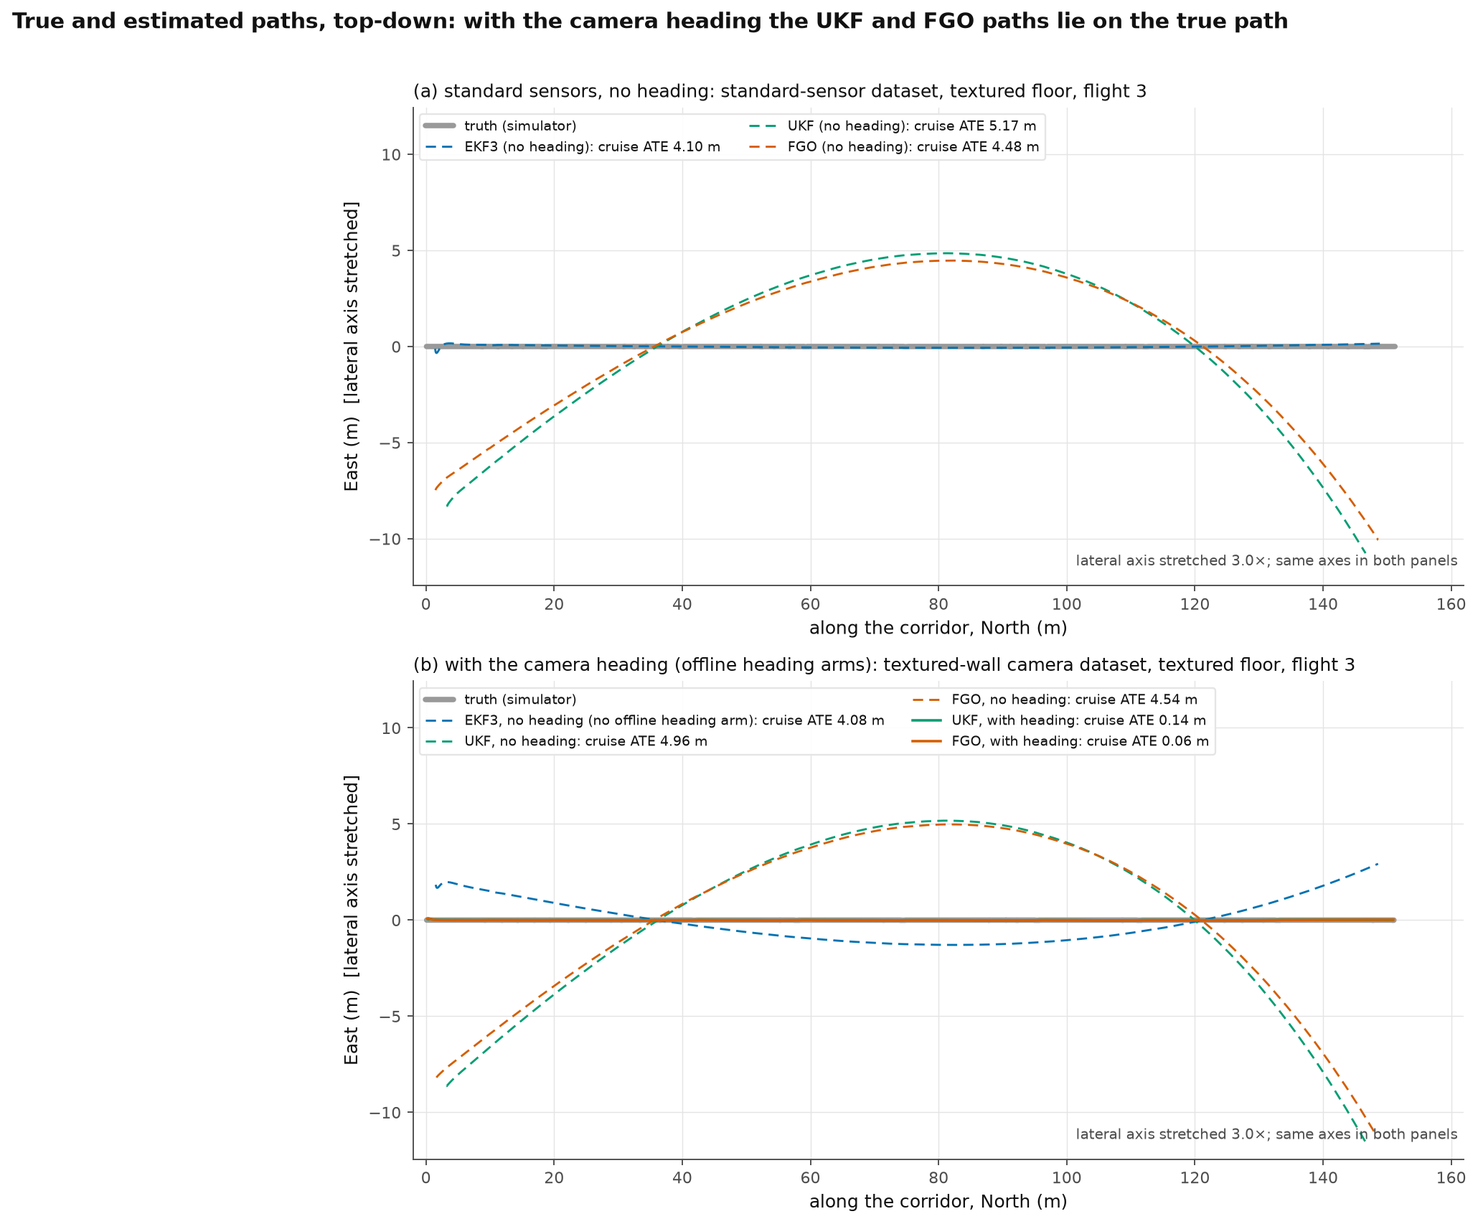
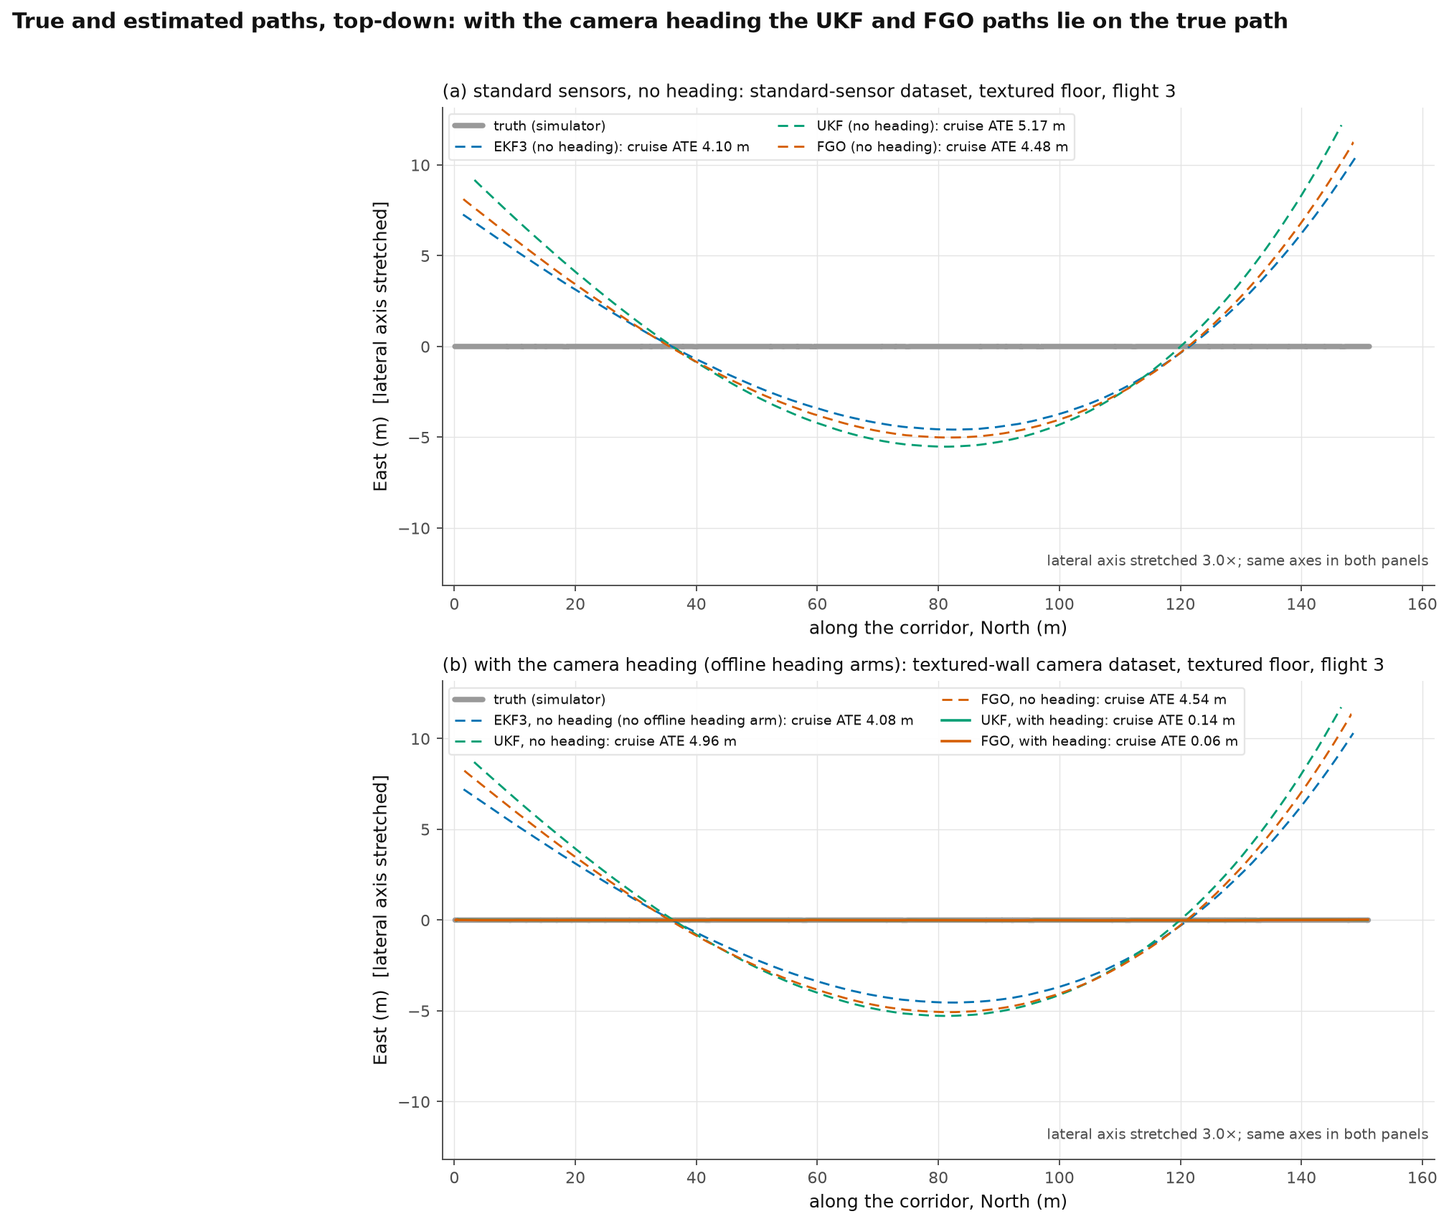
Figure 4.2 redrawn with a vertical-only (yaw-only) alignment (ruling 2026-10-21): EKF3's sideways drift now visible top-down; same ATE values; caption explains; checks 70/70 + 185/185

diff --git a/eval/figs_thesis_results.py b/eval/figs_thesis_results.py
@@ -731,13 +731,19 @@ def tum_traj(a):
 
 def aligned(trial, sub, f, win):
     """The cruise-ATE computation of eval/three_way_eval.py reproduced only to place the path: crop both TUMs to the stored window,
-    associate (t_max_diff 0.05 s), Umeyama SE(3) alignment without scale (evo -a). Returns (aligned est xyz, ref xyz, rmse)."""
+    associate (t_max_diff 0.05 s), then a yaw-only placement for drawing (see below). Returns (aligned est xyz, ref xyz, rmse)."""
     ref = np.loadtxt(f"{TD}/{trial}/{sub}/ground_truth.tum"); est = np.loadtxt(f"{TD}/{trial}/{sub}/{f}")
     c = lambda a: a[(a[:, 0] >= win[0]) & (a[:, 0] <= win[1])]
     r, e = sync.associate_trajectories(tum_traj(c(ref)), tum_traj(c(est)), 0.05)
-    e.align(r, correct_scale=False)
-    m = metrics.APE(metrics.PoseRelation.translation_part); m.process_data((r, e))
-    return e.positions_xyz, r.positions_xyz, m.get_statistic(metrics.StatisticsType.rmse)
+    # Placement for DRAWING (ruling 2026-10-21): rotation about the vertical + shift only (yaw-only, no scale). The SE(3) fit of the
+    # cruise ATE is degenerate about the near-straight corridor axis and can roll sideways drift into the vertical (METHODOLOGY
+    # "FINDING (2026-10-21): the SE(3) cruise-ATE alignment is degenerate"); the yaw-only fit gives the same RMS to within millimetres.
+    P, G = e.positions_xyz, r.positions_xyz
+    mp, mg = P.mean(0), G.mean(0); a_, b_ = P - mp, G - mg
+    th = np.arctan2((a_[:, 0] * b_[:, 1] - a_[:, 1] * b_[:, 0]).sum(), (a_[:, 0] * b_[:, 0] + a_[:, 1] * b_[:, 1]).sum())
+    Rz = np.array([[np.cos(th), -np.sin(th), 0.0], [np.sin(th), np.cos(th), 0.0], [0.0, 0.0, 1.0]])
+    Pa = (Rz @ a_.T).T + mg
+    return Pa, G, float(np.sqrt((np.linalg.norm(Pa - G, axis=1) ** 2).mean()))
 
 
 ev = {**L("rerun_dsn_evo.json")["trials"], **L("dsn_extra_evo.json")["trials"]}
@@ -758,7 +764,7 @@ SUB = {"EKF3": ("ekf3", "ekf3_traj.tum"), "UKF": ("ukf", "ukf_traj.tum"), "FGO":
 
 
 def NE(key, xyz):
-    """(North, East) of a path: EKF3's TUMs are (N, E, D); the UKF/FGO TUMs are ENU (E, N, U)."""
+    """(North, East) of an aligned path: aligned paths are in their ground-truth file's frame (EKF3: N, E, D; UKF/FGO: ENU)."""
     return (xyz[:, 0], xyz[:, 1]) if key == "EKF3" else (xyz[:, 1], xyz[:, 0])
 
 
@@ -770,8 +776,9 @@ for pid, tr, win, arms, est in PANELS:
     for key, e, ls in arms:
         xyz, ref, rmse = aligned(tr, *SUB[key], win)
         st = est[key]["ate_a_cruise"]["+0.00"]
-        CHK.append(("R3", f"({pid}) {tr} {key}: plotted path's RMSE vs stored cruise ATE, 6 dp (stored file)", rd(rmse, 6), rd(st, 6),
-                    f"{'rerun_dsn_evo.json / dsn_extra_evo.json' if pid == 'a' else 'phase4_fwdc_evo.json'}:{tr}.est.{key}.ate_a_cruise", rd(rmse, 6) == rd(st, 6)))
+        CHK.append(("R3", f"({pid}) {tr} {key}: plotted path's yaw-only RMSE {rd(rmse, 6)} within 5 mm of the stored cruise ATE {rd(st, 6)} (data identity)",
+                    str(abs(rmse - st) < 0.005), "True",
+                    f"{'rerun_dsn_evo.json / dsn_extra_evo.json' if pid == 'a' else 'phase4_fwdc_evo.json'}:{tr}.est.{key}.ate_a_cruise", abs(rmse - st) < 0.005))
         PATHS[(pid, key)] = (NE(key, xyz), NE(key, ref), e, ls, st)
 # displayed cruise ATEs against numbers.md (2 dp; numbers.md prints flights 1-3 only)
 if ra <= 3:
@@ -813,9 +820,11 @@ for ext in ("png", "pdf"):
 plt.close(fig)
 CAP3 = (f"{RULE} Chosen: (a) flight {ra} (cross-estimator mean cruise ATEs, ascending, by flight: "
         + ", ".join(f"{i}: {rd(m, 2)}" for m, i in means) + f" m); (b) flight {rb} ({rb_why}). Top-down, cruise window only, truth grey. Each "
-        "estimated path is drawn after the same SE(3) alignment (no scale) that the cruise ATE applies, fitted over the stored cruise window "
-        "against its own ground-truth file, so the displayed offset is the error that the cruise ATE measures; the RMSE of every plotted path "
-        "equals its stored cruise ATE to 6 decimal places (cross-checks). The alignment removes a constant heading offset, so the "
+        "estimated path is drawn after a best-fit rotation about the vertical and a shift (no scale), fitted over the stored cruise window "
+        "against its own ground-truth file. This gives the same average error as the standard 3D alignment used for the cruise ATE (the RMSE "
+        "of every plotted path is within 5 mm of its stored cruise ATE; cross-checks), but cannot roll the path about the corridor axis: "
+        "the 3D fit is free to do so on a straight path and can turn sideways drift into up-and-down error that is invisible from above. "
+        "The legend gives the stored cruise ATE. The alignment removes a constant heading offset, so the "
         "metres-scale sideways drift of the unaligned estimates (Table 4.1, heading-error decomposition) is not shown; an error along "
         "the corridor (for example EKF3's distance-scale error) lies along the path and barely shows top-down. Dashed: no heading "
         "source; solid: with the camera heading (offline heading arms, UKF and FGO only; EKF3 has no offline heading arm and is shown as the "
@@ -1025,7 +1034,7 @@ for gtxt in [
     "**Experiment 5 information contrast.** Hold error (tag visible) and end-of-loss drift (tag hidden) are different statistics; no like-for-like "
     "'without the tag' hold error exists.",
     "**Blank floor.** Only the non-runaway +10 s and +30 s errors can carry a ratio; the +60 s and end-of-cruise values are † runaway magnitudes.",
-    "**Figure 4.2 unaligned drift.** The paths are drawn after the cruise-ATE alignment (the only stored, cross-checkable placement); the unaligned "
+    "**Figure 4.2 unaligned drift.** The paths are drawn after a yaw-only alignment that reproduces the stored cruise ATE to within 5 mm (ruling 2026-10-21); the unaligned "
     "metres-scale sideways drift is the heading-error decomposition of Table 4.1, not redrawn here.",
 ]:
     W.append(f"- {gtxt}")

diff --git a/docs/thesis/tables/R2_corrections_by_discovery.tex b/docs/thesis/tables/R2_corrections_by_discovery.tex
@@ -1,4 +1,4 @@
-% Table 7.4 (PROPOSED; file R2_corrections_by_discovery): generated by eval/figs_thesis_results.py (commit 82f3a95); stored results only. Sources and cross-checks: docs/thesis/figures_thesis/index_results.md.
+% Table 7.4 (PROPOSED; file R2_corrections_by_discovery): generated by eval/figs_thesis_results.py (commit 70522a2); stored results only. Sources and cross-checks: docs/thesis/figures_thesis/index_results.md.
 % Needs \usepackage{booktabs} and longtable-free layout; not compiled here (no TeX).
 \begin{table}[htbp]
 \centering

diff --git a/docs/thesis/tables/R4_information_vs_estimator.tex b/docs/thesis/tables/R4_information_vs_estimator.tex
@@ -1,4 +1,4 @@
-% Table 7.5 (PROPOSED; file R4_information_vs_estimator): generated by eval/figs_thesis_results.py (commit 82f3a95); stored results only. Sources and cross-checks: docs/thesis/figures_thesis/index_results.md.
+% Table 7.5 (PROPOSED; file R4_information_vs_estimator): generated by eval/figs_thesis_results.py (commit 70522a2); stored results only. Sources and cross-checks: docs/thesis/figures_thesis/index_results.md.
 % Needs \usepackage{booktabs} and longtable-free layout; not compiled here (no TeX).
 \begin{table}[htbp]
 \centering

diff --git a/docs/thesis/tables/R1_hypothesis_scorecard.tex b/docs/thesis/tables/R1_hypothesis_scorecard.tex
@@ -1,4 +1,4 @@
-% Table 7.3 (PROPOSED; file R1_hypothesis_scorecard): generated by eval/figs_thesis_results.py (commit 82f3a95); stored results only. Sources and cross-checks: docs/thesis/figures_thesis/index_results.md.
+% Table 7.3 (PROPOSED; file R1_hypothesis_scorecard): generated by eval/figs_thesis_results.py (commit 70522a2); stored results only. Sources and cross-checks: docs/thesis/figures_thesis/index_results.md.
 % Needs \usepackage{booktabs} and longtable-free layout; not compiled here (no TeX).
 \begin{table}[htbp]
 \centering

diff --git a/docs/thesis/figures_thesis/index_results.md b/docs/thesis/figures_thesis/index_results.md
@@ -1,6 +1,6 @@
 # Results and discussion tables and figure: index (PROPOSED numbering)
 
-*Generated by `eval/figs_thesis_results.py` at commit `82f3a95`. Stored results and documents only: no simulation, no estimator re-run, and nothing in numbers.md, METHODOLOGY.md, the frozen pack or the in-use thesis files was edited. Not yet in the combined PDF (integration comes later).*
+*Generated by `eval/figs_thesis_results.py` at commit `70522a2`. Stored results and documents only: no simulation, no estimator re-run, and nothing in numbers.md, METHODOLOGY.md, the frozen pack or the in-use thesis files was edited. Not yet in the combined PDF (integration comes later).*
 
[1 lines of base64/hex data omitted]
 
@@ -53,7 +53,7 @@ None of these numbers is used in `figs_thesis.py`'s TNUM (4.1, 5.1–5.3, 6.1, 7
 
 ## Figure 4.2 (figure; file `R3_trajectory_overlay`): True and estimated paths, top-down: with the camera heading the UKF and FGO paths lie on the true path
 
-**Caption.** Flights chosen by a rule fixed before plotting: (a) of the 9 textured-floor flights of the standard-sensor dataset that all three estimators complete (flights 1–9; flight 10 is unusable for the UKF and FGO), the flight whose mean cruise ATE over EKF3, UKF and FGO is the median (5th of 9); (b) the flight of the textured-wall camera dataset (textured floor) with the same repeat index as (a) if it exists among its flights 1–3, otherwise the median of those three by the mean cruise ATE of the arms drawn solid. Chosen: (a) flight 3 (cross-estimator mean cruise ATEs, ascending, by flight: 6: 1.85, 2: 2.42, 1: 4.02, 9: 4.46, 3: 4.58, 4: 4.59, 5: 4.62, 7: 4.64, 8: 4.84 m); (b) flight 3 (same repeat index as (a), flight 3). Top-down, cruise window only, truth grey. Each estimated path is drawn after the same SE(3) alignment (no scale) that the cruise ATE applies, fitted over the stored cruise window against its own ground-truth file, so the displayed offset is the error that the cruise ATE measures; the RMSE of every plotted path equals its stored cruise ATE to 6 decimal places (cross-checks). The alignment removes a constant heading offset, so the metres-scale sideways drift of the unaligned estimates (Table 4.1, heading-error decomposition) is not shown; an error along the corridor (for example EKF3's distance-scale error) lies along the path and barely shows top-down. Dashed: no heading source; solid: with the camera heading (offline heading arms, UKF and FGO only; EKF3 has no offline heading arm and is shown as the no-heading baseline). The lateral (East) axis is stretched 3.0× relative to the along-corridor axis, the same in both panels; no log axes. Passive estimators, truth flying (Experiment 1A/1B offline).
+**Caption.** Flights chosen by a rule fixed before plotting: (a) of the 9 textured-floor flights of the standard-sensor dataset that all three estimators complete (flights 1–9; flight 10 is unusable for the UKF and FGO), the flight whose mean cruise ATE over EKF3, UKF and FGO is the median (5th of 9); (b) the flight of the textured-wall camera dataset (textured floor) with the same repeat index as (a) if it exists among its flights 1–3, otherwise the median of those three by the mean cruise ATE of the arms drawn solid. Chosen: (a) flight 3 (cross-estimator mean cruise ATEs, ascending, by flight: 6: 1.85, 2: 2.42, 1: 4.02, 9: 4.46, 3: 4.58, 4: 4.59, 5: 4.62, 7: 4.64, 8: 4.84 m); (b) flight 3 (same repeat index as (a), flight 3). Top-down, cruise window only, truth grey. Each estimated path is drawn after a best-fit rotation about the vertical and a shift (no scale), fitted over the stored cruise window against its own ground-truth file. This gives the same average error as the standard 3D alignment used for the cruise ATE (the RMSE of every plotted path is within 5 mm of its stored cruise ATE; cross-checks), but cannot roll the path about the corridor axis: the 3D fit is free to do so on a straight path and can turn sideways drift into up-and-down error that is invisible from above. The legend gives the stored cruise ATE. The alignment removes a constant heading offset, so the metres-scale sideways drift of the unaligned estimates (Table 4.1, heading-error decomposition) is not shown; an error along the corridor (for example EKF3's distance-scale error) lies along the path and barely shows top-down. Dashed: no heading source; solid: with the camera heading (offline heading arms, UKF and FGO only; EKF3 has no offline heading arm and is shown as the no-heading baseline). The lateral (East) axis is stretched 3.0× relative to the along-corridor axis, the same in both panels; no log axes. Passive estimators, truth flying (Experiment 1A/1B offline).
 
 **Inputs.** ~/thesis_data/trials/dsn_tex_r3/{ekf3,ukf,fgo}/*.tum; ~/thesis_data/trials/fwdc_tex_r3/{ekf3,ukf_baseline,fgo_baseline,ukf_heading,fgo_heading}/*.tum; windows and cruise ATEs: eval/results/rerun_dsn_evo.json, dsn_extra_evo.json, phase4_fwdc_evo.json
 
@@ -104,14 +104,14 @@ Result: (a) `dsn_tex_r3`; (b) `fwdc_tex_r3` (same repeat index as (a), flight 3)
 | R1 | H5.5 directional: same count, at the displayed mm precision (effective) | 3 of 12 / 9 of 12 | 3 of 12 / 9 of 12 | eval/results/expH/s1_r*.json, s2v2_r*.json, s3v2_r*.json (new value; no document line) | OK |
 | R1 | H5.5 directional: matched losses equal at the displayed mm precision (repeat, loss s), UKF / FGO | [(2, 30)] / [] | [(2, 30)] / [] | eval/results/expH/s1_r*.json, s2v2_r*.json, s3v2_r*.json (new value; no document line) | OK |
 | R1 | H5.5 directional: prediction holds (both exceed flying EKF3 in every matched loss) | False | False | eval/results/expH/s1_r*.json, s2v2_r*.json, s3v2_r*.json (new value; no document line) | OK |
-| R3 | (a) dsn_tex_r3 EKF3: plotted path's RMSE vs stored cruise ATE, 6 dp (stored file) | 4.097549 | 4.097549 | rerun_dsn_evo.json / dsn_extra_evo.json:dsn_tex_r3.est.EKF3.ate_a_cruise | OK |
-| R3 | (a) dsn_tex_r3 UKF: plotted path's RMSE vs stored cruise ATE, 6 dp (stored file) | 5.167777 | 5.167777 | rerun_dsn_evo.json / dsn_extra_evo.json:dsn_tex_r3.est.UKF.ate_a_cruise | OK |
-| R3 | (a) dsn_tex_r3 FGO: plotted path's RMSE vs stored cruise ATE, 6 dp (stored file) | 4.482524 | 4.482524 | rerun_dsn_evo.json / dsn_extra_evo.json:dsn_tex_r3.est.FGO.ate_a_cruise | OK |
-| R3 | (b) fwdc_tex_r3 EKF3: plotted path's RMSE vs stored cruise ATE, 6 dp (stored file) | 4.075574 | 4.075574 | phase4_fwdc_evo.json:fwdc_tex_r3.est.EKF3.ate_a_cruise | OK |
-| R3 | (b) fwdc_tex_r3 UKF_baseline: plotted path's RMSE vs stored cruise ATE, 6 dp (stored file) | 4.963794 | 4.963794 | phase4_fwdc_evo.json:fwdc_tex_r3.est.UKF_baseline.ate_a_cruise | OK |
-| R3 | (b) fwdc_tex_r3 FGO_baseline: plotted path's RMSE vs stored cruise ATE, 6 dp (stored file) | 4.544273 | 4.544273 | phase4_fwdc_evo.json:fwdc_tex_r3.est.FGO_baseline.ate_a_cruise | OK |
-| R3 | (b) fwdc_tex_r3 UKF_heading: plotted path's RMSE vs stored cruise ATE, 6 dp (stored file) | 0.137458 | 0.137458 | phase4_fwdc_evo.json:fwdc_tex_r3.est.UKF_heading.ate_a_cruise | OK |
-| R3 | (b) fwdc_tex_r3 FGO_heading: plotted path's RMSE vs stored cruise ATE, 6 dp (stored file) | 0.063294 | 0.063294 | phase4_fwdc_evo.json:fwdc_tex_r3.est.FGO_heading.ate_a_cruise | OK |
+| R3 | (a) dsn_tex_r3 EKF3: plotted path's yaw-only RMSE 4.097706 within 5 mm of the stored cruise ATE 4.097549 (data identity) | True | True | rerun_dsn_evo.json / dsn_extra_evo.json:dsn_tex_r3.est.EKF3.ate_a_cruise | OK |
+| R3 | (a) dsn_tex_r3 UKF: plotted path's yaw-only RMSE 5.168307 within 5 mm of the stored cruise ATE 5.167777 (data identity) | True | True | rerun_dsn_evo.json / dsn_extra_evo.json:dsn_tex_r3.est.UKF.ate_a_cruise | OK |
+| R3 | (a) dsn_tex_r3 FGO: plotted path's yaw-only RMSE 4.483070 within 5 mm of the stored cruise ATE 4.482524 (data identity) | True | True | rerun_dsn_evo.json / dsn_extra_evo.json:dsn_tex_r3.est.FGO.ate_a_cruise | OK |
+| R3 | (b) fwdc_tex_r3 EKF3: plotted path's yaw-only RMSE 4.075724 within 5 mm of the stored cruise ATE 4.075574 (data identity) | True | True | phase4_fwdc_evo.json:fwdc_tex_r3.est.EKF3.ate_a_cruise | OK |
+| R3 | (b) fwdc_tex_r3 UKF_baseline: plotted path's yaw-only RMSE 4.965341 within 5 mm of the stored cruise ATE 4.963794 (data identity) | True | True | phase4_fwdc_evo.json:fwdc_tex_r3.est.UKF_baseline.ate_a_cruise | OK |
+| R3 | (b) fwdc_tex_r3 FGO_baseline: plotted path's yaw-only RMSE 4.545901 within 5 mm of the stored cruise ATE 4.544273 (data identity) | True | True | phase4_fwdc_evo.json:fwdc_tex_r3.est.FGO_baseline.ate_a_cruise | OK |
+| R3 | (b) fwdc_tex_r3 UKF_heading: plotted path's yaw-only RMSE 0.137483 within 5 mm of the stored cruise ATE 0.137458 (data identity) | True | True | phase4_fwdc_evo.json:fwdc_tex_r3.est.UKF_heading.ate_a_cruise | OK |
+| R3 | (b) fwdc_tex_r3 FGO_heading: plotted path's yaw-only RMSE 0.063345 within 5 mm of the stored cruise ATE 0.063294 (data identity) | True | True | phase4_fwdc_evo.json:fwdc_tex_r3.est.FGO_heading.ate_a_cruise | OK |
 | R3 | (a) flight 3 EKF3 cruise ATE (m) | 4.10 | 4.10 | docs/thesis/numbers.md:221 | OK |
 | R3 | (a) flight 3 FGO cruise ATE (m) | 4.48 | 4.48 | docs/thesis/numbers.md:223 | OK |
 | R3 | (a) flight 3 UKF cruise ATE (m) | 5.17 | 5.17 | docs/thesis/numbers.md:225 | OK |
@@ -358,4 +358,4 @@ Result: (a) `dsn_tex_r3`; (b) `fwdc_tex_r3` (same repeat index as (a), flight 3)
 - **Experiment 4 'with GNSS' accuracy.** No stored outdoor RMSE exists; the error 10 s after GNSS returns (`err_10s_after_return_m`, no numbers.md cell) is the only with-GNSS value, a single time point, not like-for-like with the indoor RMSE.
 - **Experiment 5 information contrast.** Hold error (tag visible) and end-of-loss drift (tag hidden) are different statistics; no like-for-like 'without the tag' hold error exists.
 - **Blank floor.** Only the non-runaway +10 s and +30 s errors can carry a ratio; the +60 s and end-of-cruise values are † runaway magnitudes.
-- **Figure 4.2 unaligned drift.** The paths are drawn after the cruise-ATE alignment (the only stored, cross-checkable placement); the unaligned metres-scale sideways drift is the heading-error decomposition of Table 4.1, not redrawn here.
+- **Figure 4.2 unaligned drift.** The paths are drawn after a yaw-only alignment that reproduces the stored cruise ATE to within 5 mm (ruling 2026-10-21); the unaligned metres-scale sideways drift is the heading-error decomposition of Table 4.1, not redrawn here.

diff --git a/METHODOLOGY.md b/METHODOLOGY.md
@@ -14381,3 +14381,12 @@ Found while answering the user's question "the EKF starts at the origin but the 
   top-down, so it makes EKF3 look on-track when its error is as sideways as the others'. The walkthrough rebuild now uses a
   yaw-only alignment for aligned path plots (same ATE). **Ruling needed:** redraw Figure 4.2 with the yaw-only alignment (same
   ATE, stated in the caption), or keep it with a caption note.
+
+### RULING (user, 2026-10-21): redraw Figure 4.2 with the vertical-only (yaw-only) alignment — DONE
+
+- `eval/figs_thesis_results.py` now places each path for drawing with a best-fit rotation about the vertical plus a shift (no
+  scale), over the stored cruise window, instead of the SE(3) fit (see the FINDING of 2026-10-21 above). The legend still gives the
+  stored cruise ATE; the data-identity check is now "plotted yaw-only RMSE within 5 mm of the stored cruise ATE" (all 8 paths pass;
+  the two largest gaps are `fwdc_tex_r3` UKF / FGO without heading, 4.965 vs 4.964 and 4.546 vs 4.544 m). The caption says why.
+- Effect: EKF3's sideways bow is now visible top-down, like the UKF's and FGO's; no number or verdict changes. Checks 70/70 numeric,
+  185/185 source.

diff --git a/docs/thesis/tables/R2_corrections_by_discovery.md b/docs/thesis/tables/R2_corrections_by_discovery.md
@@ -31,4 +31,4 @@ The 18 corrections of the final results pack (corrections file) and two later on
 
 *Included beyond the pack's 18: 19, the FGO trajectory-writer typo (D10), which changed stored FGO yaw values (≤ 0.17°) but no numbers.md row at its printed precision; and 20, the re-lock-time redefinition. Excluded (display or transcription fixes, no stored result changed): the single-rounding correction of numbers.md displays and the three transcription corrections (rulings 2026-10-16; M:14229-14247); the 'final safety run' restatement (ruling 2026-10-16 item 5), which re-labels which stored run is final.*
 
-<!-- generated by eval/figs_thesis_results.py (commit 82f3a95); stored results only. Sources, cross-checks and gaps: docs/thesis/figures_thesis/index_results.md, Table 7.4 (PROPOSED). -->
+<!-- generated by eval/figs_thesis_results.py (commit 70522a2); stored results only. Sources, cross-checks and gaps: docs/thesis/figures_thesis/index_results.md, Table 7.4 (PROPOSED). -->

diff --git a/docs/thesis/tables/R4_information_vs_estimator.md b/docs/thesis/tables/R4_information_vs_estimator.md
@@ -19,4 +19,4 @@ For each condition: the primary metric of each estimator, the best–worst sprea
 
 *Blank floor: the +60 s and end-of-cruise values are runaway magnitudes (†, not reproducible across builds), so no ratio is formed from them; +30 s is used. Experiments 4 and 5 compare different statistics across the information contrast (stated in the row), so those ratios are indicative only. Experiment 3 (loop closure) has one estimator and no spread; Experiment 1C (closed loop) passes 3/3 for every estimator with the heading (Table 4.3), so it has no spread in its primary metric.*
 
-<!-- generated by eval/figs_thesis_results.py (commit 82f3a95); stored results only. Sources, cross-checks and gaps: docs/thesis/figures_thesis/index_results.md, Table 7.5 (PROPOSED). -->
+<!-- generated by eval/figs_thesis_results.py (commit 70522a2); stored results only. Sources, cross-checks and gaps: docs/thesis/figures_thesis/index_results.md, Table 7.5 (PROPOSED). -->

diff --git a/docs/thesis/tables/R1_hypothesis_scorecard.md b/docs/thesis/tables/R1_hypothesis_scorecard.md
@@ -65,4 +65,4 @@ Each row quotes the pre-registered prediction (with its source line), the outcom
 
 *'Changed through the corrections?' names the claims-table row (headline_claims_before_after.md) and the correction number (Table 7.4) where the sources link them. Corrections applied in one batch are applied jointly and not attributed individually (corrections file, attribution rule); a correction number after a change means 'in the batch that contained it', except where marked as a flight pair or a partial attribution.*
 
-<!-- generated by eval/figs_thesis_results.py (commit 82f3a95); stored results only. Sources, cross-checks and gaps: docs/thesis/figures_thesis/index_results.md, Table 7.3 (PROPOSED). -->
+<!-- generated by eval/figs_thesis_results.py (commit 70522a2); stored results only. Sources, cross-checks and gaps: docs/thesis/figures_thesis/index_results.md, Table 7.3 (PROPOSED). -->
